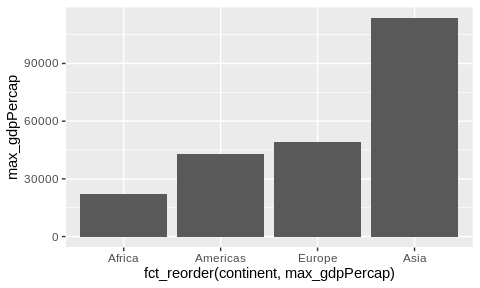
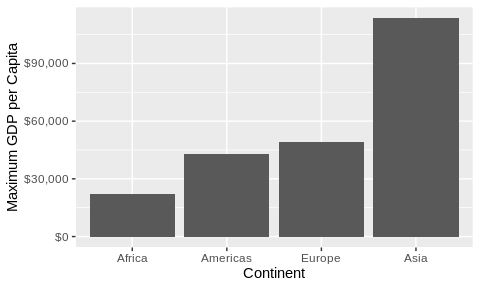
fixed axis labels

diff --git a/hw05/hw05.md b/hw05/hw05.md
@@ -38,7 +38,10 @@ original factor levels in the continent factor.
 ``` r
 p %>% 
   ggplot(aes(x = continent, y = max_gdpPercap)) +
-  geom_bar(stat = "identity")
+  geom_bar(stat = "identity") +
+  ylab("Maximum GDP per Capita") +
+  xlab("Continent") +
+  scale_y_continuous(labels = scales::dollar_format())
 ```
 
 ![](hw05_files/figure-gfm/unnamed-chunk-3-1.png)<!-- -->
@@ -49,7 +52,10 @@ is rearranged based on their highest GDP per Capita values.
 ``` r
 p %>% 
   ggplot(aes(x = fct_reorder(continent, max_gdpPercap), y = max_gdpPercap)) +
-  geom_bar(stat = "identity")
+  geom_bar(stat = "identity") +
+  ylab("Maximum GDP per Capita") +
+  xlab("Continent") +
+  scale_y_continuous(labels = scales::dollar_format())
 ```
 
 ![](hw05_files/figure-gfm/unnamed-chunk-4-1.png)<!-- -->
